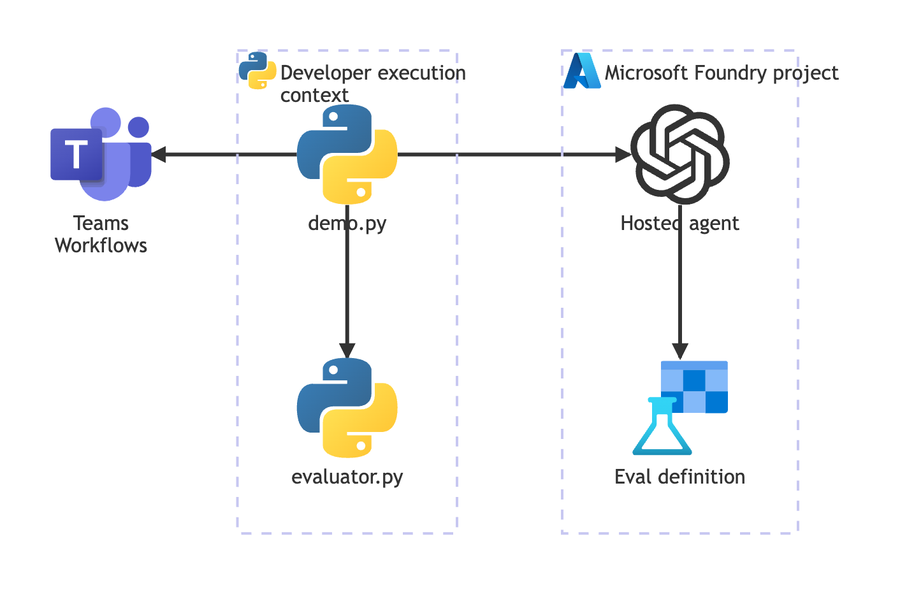
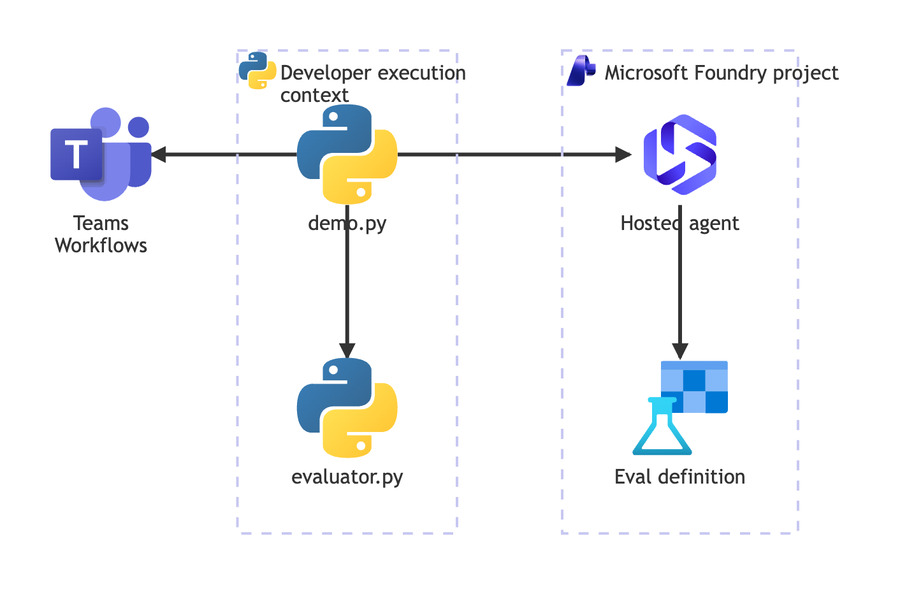
Enhance documentation for QLT-001 and update architecture diagram references

Changed region(s): [[0.6844, 0.1525, 0.8089, 0.3661], [0.6222, 0.0915, 0.6844, 0.1525]]

diff --git a/tests/test_control_readme_structure.py b/tests/test_control_readme_structure.py
@@ -164,12 +164,30 @@ def test_root_readme_links_every_implemented_demo() -> None:
 
 
 def test_every_control_readme_uses_brand_assets_and_palette() -> None:
+    # docs/control-readme-template.md's Infrastructure architecture diagram is
+    # the only one of the two canonical Mermaid diagrams whose classDef block
+    # declares #1F2937 ("neutral"); Logical design's four classDefs cover the
+    # other seven BRAND_COLORS on their own. A control may replace
+    # Infrastructure architecture with a pre-rendered image instead of a
+    # classDef'd flowchart (see scripts/render_architecture_diagram.py, used
+    # when real service icons communicate the building blocks better than a
+    # colored box); such a control has no classDef left to declare #1F2937
+    # and is not required to invent one.
+    infra_only_colors = {"#1F2937"}
+    required_without_infra_diagram = set(BRAND_COLORS) - infra_only_colors
+
     for readme in control_readmes():
         content = readme.read_text(encoding="utf-8")
 
         assert "../../../media/themepack/" in content, readme
         assert "fwf-footer.png" in content, readme
-        assert all(color in content for color in BRAND_COLORS), readme
+
+        infra_section = re.search(
+            r"^## Infrastructure architecture$(.*?)^## ", content, re.DOTALL | re.MULTILINE
+        )
+        has_infra_diagram = bool(infra_section) and "```mermaid" in infra_section.group(1)
+        required_colors = set(BRAND_COLORS) if has_infra_diagram else required_without_infra_diagram
+        assert all(color in content for color in required_colors), readme
 
 
 def test_documentation_image_paths_resolve() -> None:

diff --git a/.claude/skills/mermaid-infra-diagram/SKILL.md b/.claude/skills/mermaid-infra-diagram/SKILL.md
@@ -12,11 +12,13 @@ metadata:
 
 ## Why this exists, and the one hard constraint to respect
 
-Every control's "Infrastructure architecture" section in this repository
-currently uses a plain Mermaid `flowchart` with `classDef`-based color coding
+Most controls' "Infrastructure architecture" sections in this repository use
+a plain Mermaid `flowchart` with `classDef`-based color coding
 (purple/blue/green/orange) instead of real service icons, because that is
 what GitHub's built-in Mermaid renderer supports natively in a live code
-block.
+block. `QLT-001_hallucination_rate_high` is the first control that instead
+uses this skill's icon-based pipeline (`docs/architecture.mmd` +
+`media/architecture.png`) -- a working reference to copy from.
 
 Mermaid's `architecture-beta` diagram type supports real icons via Iconify
 icon packs (`service name(logos:microsoft-azure)[Label]`), but **GitHub does
@@ -73,14 +75,29 @@ browser -- see `--chrome` below.
    existing subgraph-grouping convention.
 
 2. **Pick a real icon for each node**, preferring, in order:
-   - `logos:<name>` for anything with an official brand logo. Confirmed
-     present in the installed `@iconify-json/logos` set (2026-09-23):
-     `azure`, `azure-icon`, `microsoft`, `microsoft-azure`,
-     `microsoft-teams`, `microsoft-power-bi`, `github`, `github-actions`,
-     `github-copilot`, `python`, `micro-python`, `openai`, `openai-icon`.
-     Check `.tooling/mermaid/node_modules/@iconify-json/logos/icons.json`
-     for the full, current list before assuming a name exists -- guessing an
-     icon name that is not in the set renders as a broken icon.
+   - A user-supplied official asset in `media/icons/` (repo root), when one
+     exists for the exact component being drawn -- see "Official custom
+     icons" below. Prefer this over a generic lookalike for anything that is
+     specifically a Microsoft Foundry building block (an agent, the Foundry
+     product itself, a tool), since a generic or vendor logo can be
+     semantically wrong even when it renders cleanly. Confirmed the hard way
+     on QLT-001 (2026-09-23): the OpenAI logo (`logos:openai-icon`) was
+     initially used for a "Hosted agent" node and the classic Azure "A" logo
+     (`logos:microsoft-azure`) for a "Microsoft Foundry project" group --
+     both render fine but both are wrong, because a hosted agent is not an
+     OpenAI product and a Foundry project is not generically "Azure". Check
+     whether `media/icons/` already has the real Foundry ribbon logo or an
+     "AI agents" icon before reaching for a model-vendor or generic-cloud
+     brand mark as a stand-in.
+   - `logos:<name>` for anything with an official brand logo and no better
+     asset in `media/icons/`. Confirmed present in the installed
+     `@iconify-json/logos` set (2026-09-23): `azure`, `azure-icon`,
+     `microsoft`, `microsoft-azure`, `microsoft-teams`, `microsoft-power-bi`,
+     `github`, `github-actions`, `github-copilot`, `python`, `micro-python`,
+     `openai`, `openai-icon`. Check
+     `.tooling/mermaid/node_modules/@iconify-json/logos/icons.json` for the
+     full, current list before assuming a name exists -- guessing an icon
+     name that is not in the set renders as a broken icon.
    - `azure:<name>` for a specific Azure service that has no brand logo of
      its own (Key Vault, Machine Learning workspace, Storage, and similar).
      This resolves from a community Iconify-format icon set fetched by URL
@@ -89,7 +106,40 @@ browser -- see `--chrome` below.
      https://github.com/NakayamaKento/AzureIcons/blob/main/icons.json
      before picking one.
    - No icon (a plain `service name[Label]` with no parenthesized icon) for
-     anything with no good match in either set. Do not invent an icon name.
+     anything with no good match in any of the above. Do not invent an icon
+     name.
+
+### Official custom icons (`media/icons/` + `build_icon_pack.py`)
+
+When the user has dropped official brand SVG/PNG assets into `media/icons/`
+(repo root) -- for example a real Microsoft Foundry ribbon logo or an
+"AI agents" icon downloaded from a Microsoft brand page -- turn them into a
+local Iconify pack once with `scripts/build_icon_pack.py`:
+
+```zsh
+python3 scripts/build_icon_pack.py \
+    --source-dir media/icons \
+    --output media/icons/fwf-icons.json \
+    --prefix fwf \
+    --icons ai-foundry.png ai-agents.svg
+```
+
+Each source file becomes one icon named after its filename stem, slugified
+(non-alphanumeric characters become `-`) -- `ai-foundry.png` becomes
+`fwf:ai-foundry`, not `fwf:foundry`. Run the script without `--icons` to
+package every SVG/PNG directly in the directory, or check the "Wrote ... N
+icon(s): ..." output line for the exact keys produced. Reference the result
+in the `.mmd` source as `fwf:<icon-name>` (see step 3), and pass it to the
+renderer with `--local-icon-pack fwf#media/icons/fwf-icons.json` (see step
+4) -- **the plain `--icon-packs`/`--extra-icon-urls` flags will not find a
+pack that was never installed via npm or fetched by URL.**
+
+A locally-built pack must be served with a CORS header or Mermaid's
+in-browser fetch silently fails (the icon renders as a "?" with no error,
+confirmed 2026-09-23) -- `render_architecture_diagram.py`'s
+`--local-icon-pack` flag already spins up a throwaway CORS-enabled HTTP
+server for the duration of the render, so this only matters if rendering by
+some other means.
 
 3. **Write the `.mmd` source** in the control's own directory (for example
    `docs/architecture.mmd`), using `architecture-beta` syntax:
@@ -129,6 +179,17 @@ browser -- see `--chrome` below.
    python3 scripts/render_architecture_diagram.py \
        --input controls/<category>/<ID>/docs/architecture.mmd \
        --output controls/<category>/<ID>/media/architecture.png \
+       --chrome "/Applications/Google Chrome.app/Contents/MacOS/Google Chrome"
+   ```
+
+   If the diagram references a local official-icon pack built in "Official
+   custom icons" above, add `--local-icon-pack`:
+
+   ```zsh
+   python3 scripts/render_architecture_diagram.py \
+       --input controls/<category>/<ID>/docs/architecture.mmd \
+       --output controls/<category>/<ID>/media/architecture.png \
+       --local-icon-pack "fwf#media/icons/fwf-icons.json" \
        --chrome "/Applications/Google Chrome.app/Contents/MacOS/Google Chrome"
    ```
 

diff --git a/controls/grounding_and_quality/QLT-001_hallucination_rate_high/README.md b/controls/grounding_and_quality/QLT-001_hallucination_rate_high/README.md
@@ -397,11 +397,6 @@ running `demo.py notify` produced a real decision and a real, accepted
     <img src="media/teams-quality-review-required.png" alt="Real Teams Adaptive Card: QLT-001 Groundedness quality review required, showing window 3, 8/17 ungrounded, 47.06% rate against a 5% threshold, and 2 critical items" width="832">
 </p>
 
-[Privacy note: element-anchored capture of the card only; no tenant, account,
-or channel chrome was in frame, so nothing further was masked. The
-correlation id shown is this control's own generated window UUID, not a
-tenant or subscription identifier.]
-
 This demonstrates the exact reader-visible step this control exists for:
 Foundry's real groundedness evaluator found a real, elevated hallucination
 rate against the deliberately degraded knowledge base, the deterministic
